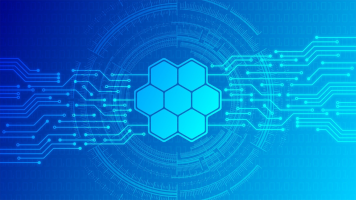
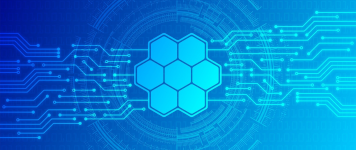
apparence page accueil

diff --git a/css/styleAccueil.css b/css/styleAccueil.css
@@ -1,15 +1,3 @@
-.branche{
-    display: grid;
-    grid-template-columns: 1fr 2fr;
-    min-height: 200px;
-}
-
-.branche-description{
-    position: relative;
-    top: 50%;
-    transform: translateY(-50%);
-}
-
 .ligne-1{
     display: grid;
     grid-template-columns: 2fr 1fr;
@@ -18,5 +6,31 @@
 .test-desc{
     text-align: center;
     font-weight: bold;
+}
 
+
+/* style des branches */
+.branche{
+    display: grid;
+    grid-template-columns: 1fr 1fr;
+    min-height: 500px;
+    background-repeat: no-repeat;
+    background-size: 100% 100%;
+}
+
+.branche div *{
+    color: white;
+    text-align: center;
+}
+
+.branche-slogan{
+    position: relative;
+    top: 50%;
+    transform: translateY(-50%);
+}
+
+.branche-nom{
+    position: relative;
+    top: 50%;
+    transform: translateY(-50%);
 }

diff --git a/layouts/accueil.php b/layouts/accueil.php
@@ -1,6 +1,7 @@
 
 
 <?php require_once("header.php")?>
+<?php require_once("controllers/controllerAccueil.php")?>
 
 <!-- premiere ligne de contenu -->
 <div class="ligne-1">
@@ -13,30 +14,38 @@
     </div>
     <!-- affichage compte -->
     <div>
-        <?= $loginCard ?>
+        
     </div>
 </div>
 
 <!-- lignes pour chaque branche -->
+
+
+
+
 <div>
-    <?php foreach($branches as list($id,$nom,$desc,$slogan,$img)) {
-    ?>
-        <div class="branche" style>
-            <div style="background-image: url('<?= $img ?>');">
-                <h1><?= $nom ?></h1>
+    <?php $branches = getBranches(); ?>
+
+
+    <?php foreach($branches as list($id,$nom,$desc,$slogan,$img)) {  ?>
+
+        <div class="branche" style="background-image: url('<?= $img ?>');">
+            <div>
+                <h2 class="branche-nom"><?= $nom ?></h3>
             </div>
-            <p class=branche-description>
-                <?= $slogan ?>
-            </p>
+            <div>
+                <h3 class=branche-slogan><?= $slogan ?></h3>
+            </div>
         </div>
 
-    <?php
-    }
-    ?>
+    <?php } ?>
+
+
+
 </div>
 
 
-<?php require("footer.php") ?>
+<?php require_once("footer.php") ?>
 
 </body>
 </html>

diff --git a/controllers/controllerAccueil.php b/controllers/controllerAccueil.php
@@ -29,14 +29,16 @@ function getBranche($id){
         die('Erreur : ' . $e->getMessage());
     }
     
-    $stmt = $db->query("
+    $stmt = $db->prepare("
         SELECT f.filiereId, f.filiereNom, f.filiereDescription, f.filiereSlogan, i.ImageEmplacement 
         FROM Filiere f
         LEFT JOIN Images i ON f.ImageID = i.ImageID
-        WHERE filiereID = ?;
+        WHERE filiereID = :id;
     ");
 
-    $branche = $stmt->fetchAll([$id]);
+    $stmt->execute(['id' => $id]); 
+
+    $branche = $stmt->fetchAll();
 
     return $branche;
 }
@@ -48,11 +50,6 @@ function accueil(){
     $stylesheets = ["css/styles.css","css/styleAccueil.css"];
     $scripts = [];
 
-
-    // a recuperer dans la bdd
-    $branches = getBranches();
-    $buttonlink = "";
-    $loginCard="";
 
     include("layouts/accueil.php");
 }
